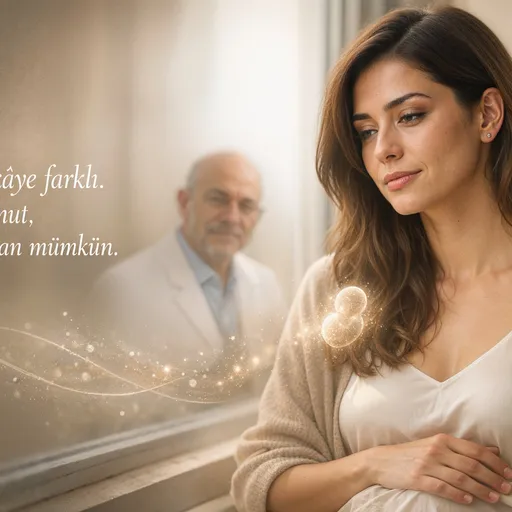
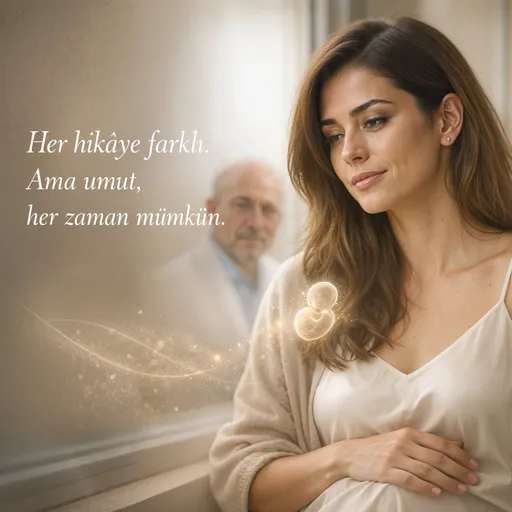
Update hero image for success rates article and enhance local settings

diff --git a/src/content/articles/basari-oranlari.md b/src/content/articles/basari-oranlari.md
@@ -6,7 +6,7 @@ author: "tupbebek.com Yayın Kurulu"
 medicalReviewer: "Doç. Dr. Senai Aksoy"
 lastModified: 2026-04-05
 category: "Tüp Bebek"
-image: "/images/library/istatistik/yas_gebelikorani_ivf.webp"
+image: "/images/library/istatistik/basari_oranlari_hero.webp"
 imageAlt: "Yaşa göre tüp bebek başarı oranları grafiği"
 featured: true
 references:
